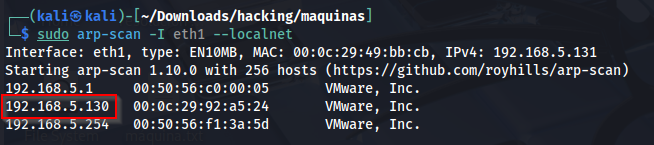
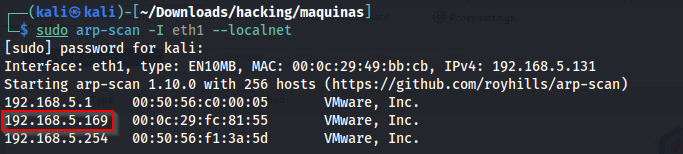
Observer v1

diff --git a/Observer.md b/Observer.md
@@ -1,0 +1,37 @@
+# Máquina Observer
+### Reconocimiento de la Ip de la máquina víctima
+
+![alt text](image.png)
+
+### Puertos abiertos
+
+sudo nmap -sS --disable-arp-ping --min-rate 6000 -p- --open -vvv -Pn 192.168.5.169
+
+![alt text](image-1.png)
+
+### Servicios y versiones
+
+sudo nmap -sVC --min-rate 6000 -p22,111,135,139,445 -vvv -Pn 192.168.5.169
+
+
+
+### Fuzzing Web
+
+feroxbuster --url http://192.168.5.169/ -w /usr/share/seclists/Discovery/Web-Content/big.txt
+
+
+
+### Explotación
+
+
+
+### Escalar privilegios
+
+
+### user.txt
+
+
+
+### root.txt
+
+
